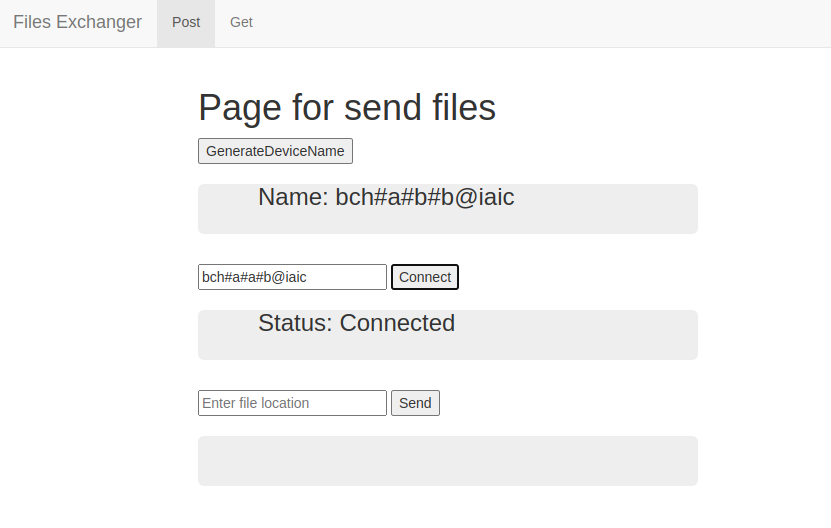
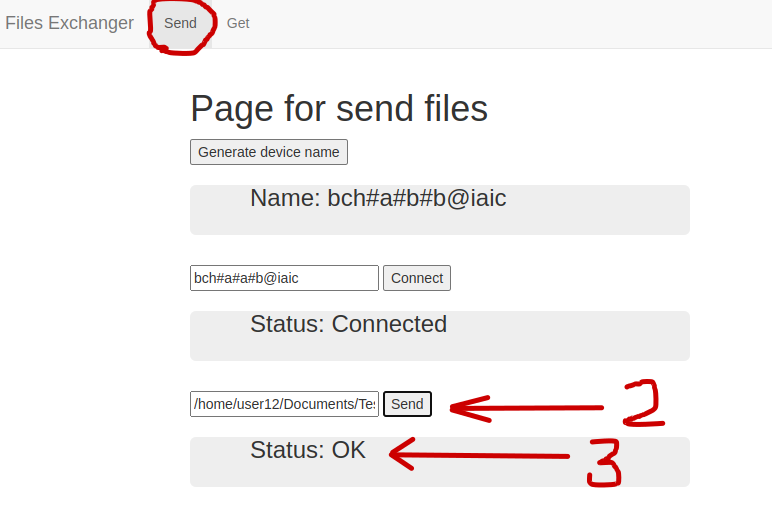
clear pictures

diff --git a/README.md b/README.md
@@ -33,7 +33,7 @@ button "GenerateDeviceName", for generation personal "UserDeviceName_2" in local
     4.2. User2 get the meccage: "Status: Connected"
 ```
 ![plot](common/img/get2.png)
-![plot](common/img/send3.1.png)
+![plot](common/img/send2.png)
 
 ### Step 4
 ```
@@ -42,8 +42,8 @@ button "GenerateDeviceName", for generation personal "UserDeviceName_2" in local
 3. User1 get message: "Status: OK"
 4. User2 get message "Status: OK"
 ```
-![plot](common/img/send4.1.png)
-![plot](common/img/get4.png)
+![plot](common/img/send3.png)
+![plot](common/img/get3.png)
 
 
 ## Plans for future
@@ -53,7 +53,6 @@ button "GenerateDeviceName", for generation personal "UserDeviceName_2" in local
 - add button "Choose file"
 ```
 # Profit!
-![plot](common/img/post3.png)
 
 ## Short description, how it works inside
 
